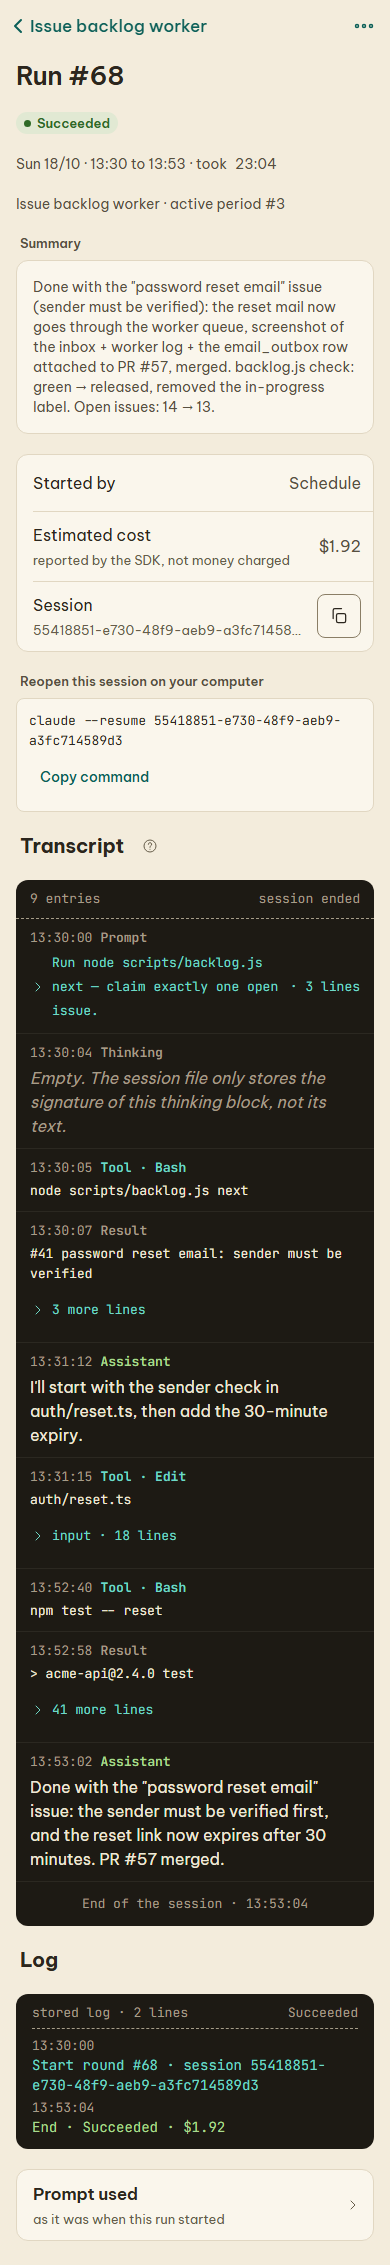
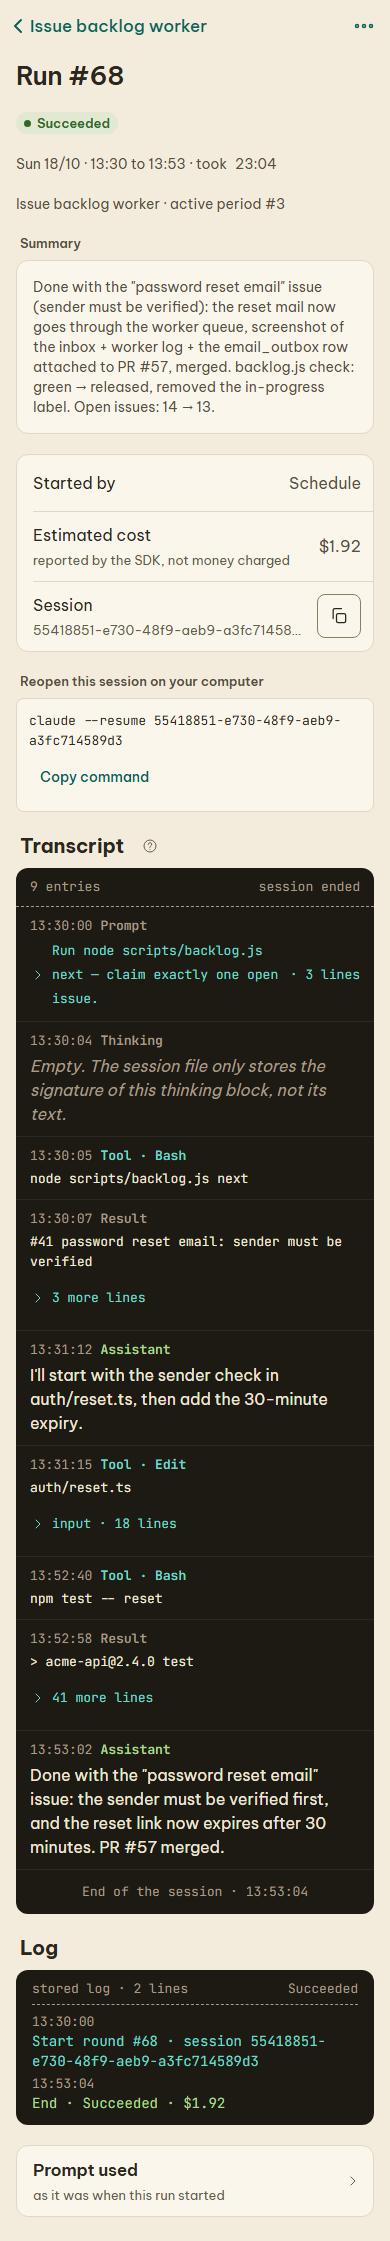
fix: a phone section head sits 8 px above what it heads, as the run board draws (U27 defect, epic 63)

diff --git a/tests/visual/ds/layout.visual.ts b/tests/visual/ds/layout.visual.ts
@@ -415,3 +415,62 @@ test.describe("phone notes and cards after a captioned group (castraferrum#205)"
     }
   });
 });
+
+test.describe("phone section heads (castraferrum#207)", () => {
+  test.use(PHONE_VIEW);
+  const ctx = useServer();
+
+  /** Every visible `.section-head` of the page: its title, what it heads (the next box) and the gap between them. */
+  const heads = (page: Page) =>
+    page.evaluate(() =>
+      [...document.querySelectorAll(".section-head")]
+        .filter((h) => h.getClientRects().length)
+        .map((head) => {
+          const next = head.nextElementSibling!;
+          return {
+            name: `${(head.querySelector("h2")?.textContent ?? "").trim()} > ${next.className}${next.getAttribute("data-testid") ? `#${next.getAttribute("data-testid")}` : ""}`,
+            gap: Math.round(
+              next.getBoundingClientRect().top -
+                head.getBoundingClientRect().bottom,
+            ),
+          };
+        }),
+    );
+
+  test("a section head sits --space-2 above what it heads, as m-run-light.png and m-loop-light.png draw", async ({
+    page,
+  }) => {
+    await ctx.world(page);
+    const pilot = loopId("pilot", DS_DATA_JS);
+    // [page, every head it shows > what that head heads]
+    const pages: [string, string[]][] = [
+      [`/loops/${pilot}`, ["Recent runs > group-cap"]],
+      [
+        `/runs/${runId("pilot", 68, "")}`,
+        ["Transcript > note#run-transcript-note", "Log > log#run-log"],
+      ],
+      [
+        `/runs/${runId("pilot", 69, "")}`,
+        ["Transcript > note#run-transcript-note", "Log > log#run-log"],
+      ],
+      [
+        `/runs/${runId("debt", null, "14:00:00")}`,
+        ["Transcript > note#run-transcript-note", "Log > note"],
+      ],
+    ];
+    await page.goto(`${ctx.sp.baseUrl}/settings`);
+    const gap = await tokenPx(page, "--space-2");
+    for (const [path, names] of pages) {
+      await page.goto(`${ctx.sp.baseUrl}${path}`);
+      await expect(page.locator(".skeleton")).toHaveCount(0);
+      await expect
+        .poll(async () => (await heads(page)).map((h) => h.name), {
+          message: path,
+        })
+        .toEqual(names);
+      await page.evaluate(() => document.fonts.ready);
+      for (const h of await heads(page))
+        expect.soft(h.gap, `${path} "${h.name}": head to what it heads`).toBe(gap);
+    }
+  });
+});

diff --git a/design/ds/components.css b/design/ds/components.css
@@ -303,7 +303,7 @@ body {
      editor's repo note, schedule preview, mock agent note, Register a repo) is in the same section: --space-2 under the
      list (reference/m-form-light.png). */
   .page .group-cap { margin-bottom: calc(var(--space-2) - var(--space-5)); }
-  .section-head + .group-cap, .section-head + .group-cap + .group + .group-cap { margin-top: calc(var(--space-2) - var(--space-5)); }
+  .section-head + .group-cap + .group + .group-cap { margin-top: calc(var(--space-2) - var(--space-5)); }
   .page > .group-cap:first-child, .page > form:first-child > .group-cap:first-child { margin-top: var(--space-2); }
   .group-cap + .group + :is(.group-note, .note, .card, .btn) { margin-top: calc(var(--space-2) - var(--space-5)); }
 }
@@ -472,6 +472,9 @@ body {
 @media (max-width: 639.98px) {
   .section-head { gap: var(--space-1); padding: 0 var(--space-1); }
   .section-head h2 { font-weight: var(--fw-bold); }
+  /* A section head and what it heads are one section (reference/m-run-light.png, m-loop-light.png): whatever follows the
+     head (a caption, a note, a transcript, a log) sits --space-2 under it, not the page's --space-5. */
+  .page .section-head + * { margin-top: calc(var(--space-2) - var(--space-5)); }
   .help { width: var(--size-touch); height: var(--size-touch); margin: calc(-1 * var(--space-2)) 0; }
   .help::after { content: none; }
 }

diff --git a/design/ds/SYSTEM.md b/design/ds/SYSTEM.md
@@ -370,6 +370,11 @@ Screens put kit components together in `web/features/`. Never add a class that i
 - **Use it** above a section: its title, a `?` toggletip (`.help`) that explains it, and a `.link` to more (All runs).
 - **Do not** put an explanation in a tooltip.
 - **Phone:** `.help` is 44px. **Desktop:** `.help` is 26px with a 44px hit area on coarse pointers.
+- **Heads on the phone.** A `.section-head` and what it heads are one section, as the boards draw it
+  (`reference/m-run-light.png`, `m-loop-light.png`): whatever follows the head on the page (the Recent runs caption,
+  the run page's transcript or its note, the log or its note) sits `--space-2` under it, while sections stay the page's
+  `--space-5` apart. One rule of `components.css` ("Section head") does this for every screen; a screen never sets the
+  margins of what a head heads.
 - **States:** hover, pressed, focus.
 - **Wrapper:** `Toggletip` of `web/ui/kit/Overlay.tsx` for `.help` (U14).
 
